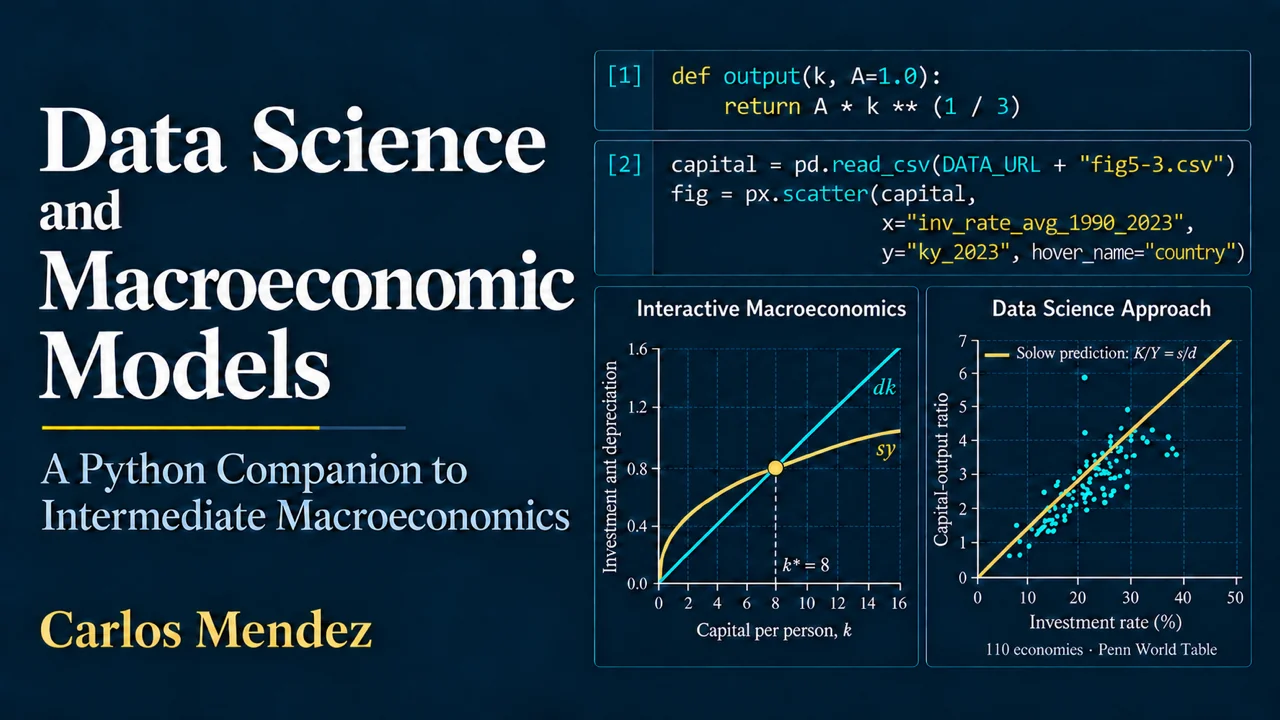
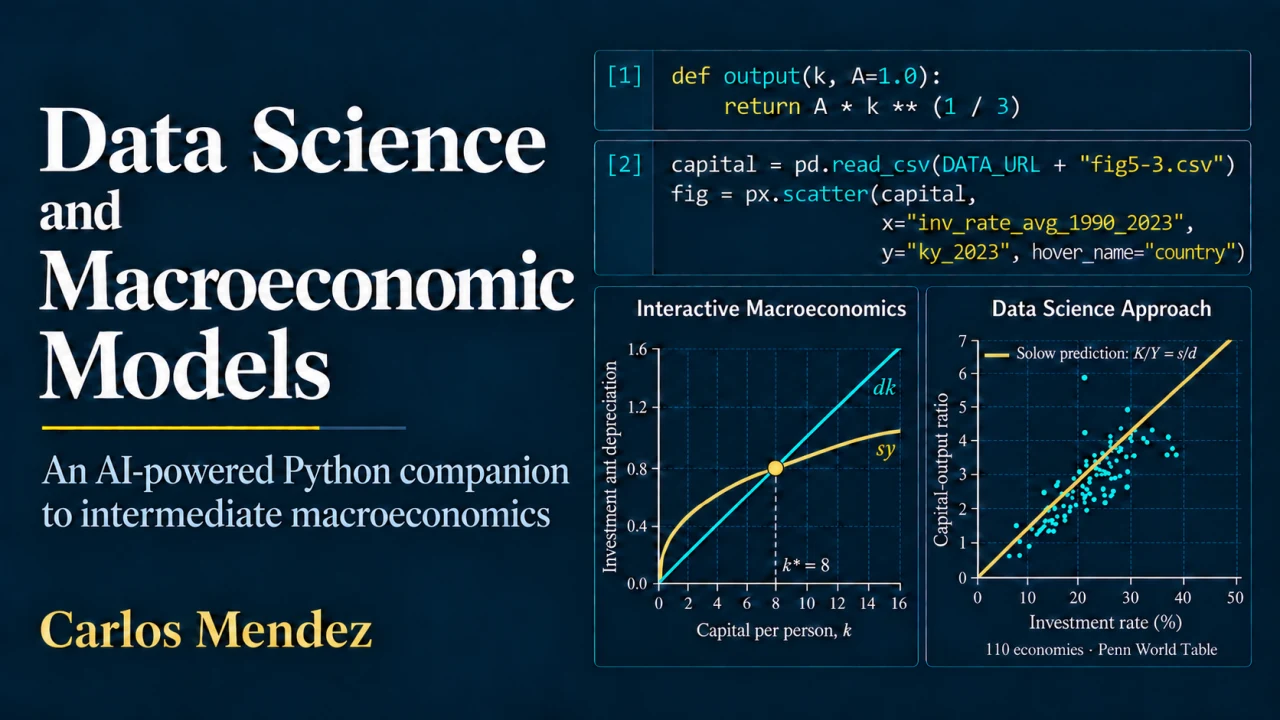
books: update AI-powered subtitle artwork and appendix resources

diff --git a/content/cv/main.tex b/content/cv/main.tex
@@ -416,7 +416,7 @@ districts: Evidence from the Greater Jakarta Metropolitan Area, \textit{Asia-Pac
 
 \subsection{Books}
 
-\cvitem{2026}{\textit{Data Science and Macroeconomic Models: A Python Companion to Intermediate Macroeconomics}. Online open-access book. \url{https://quarcs-lab.github.io/macro102-site/}}
+\cvitem{2026}{\textit{Data Science and Macroeconomic Models: An AI-powered Python companion to intermediate macroeconomics}. Online open-access book. \url{https://quarcs-lab.github.io/macro102-site/}}
 % Source copyright year: 2026; no publication day specified.
 
 \cvitem{2026}{\textit{Comparative causal metrics: An introduction to regional impact evaluation}. Online open-access book (in progress). \url{https://quarcs-lab.github.io/ccm}}

diff --git a/content/ja/books/macro102/index.md b/content/ja/books/macro102/index.md
@@ -8,13 +8,13 @@ external_link: ""
 image:
   caption: ""
   focal_point: Smart
-summary: 国によって豊かさが異なるのはなぜでしょうか。成長や景気変動を生み出す仕組みは何でしょうか。全21章の対話型Python教材、4つの付録、計算用ノートブック、講義スライドを通して、データとマクロ経済モデルを探究します。
+summary: 国によって豊かさが異なるのはなぜでしょうか。成長や景気変動を生み出す仕組みは何でしょうか。全21章の対話型Python教材、8つの付録、計算用ノートブック、講義スライドを通して、データとマクロ経済モデルを探究します。
 tags:
 - python
 - macroeconomics
 - data-science
 title: "データサイエンスとマクロ経済モデル"
-subtitle: "中級マクロ経済学のためのPython実践ガイド"
+subtitle: "AIを活用した中級マクロ経済学のためのPython実践ガイド"
 links:
   - name: "ウェブサイト"
     url: "https://quarcs-lab.github.io/macro102-site/"
@@ -24,7 +24,7 @@ links:
 
 生活水準はなぜ大きく向上したのでしょうか。それでも国によって豊かさに大きな差があるのはなぜでしょうか。景気後退時に生産・失業・インフレはどう変わるのでしょうか。**データサイエンスとマクロ経済モデル**は、実際のデータと操作できるモデルを通して、これらの問いに取り組みます。
 
-**カルロス・メンデス**による本書の原題は *Data Science and Macroeconomic Models* です。Charles I. Jonesの *Macroeconomics*（2024年）をPythonで学ぶための無料公開のオンライン書籍で、**全21章**は同じ章題・順序を採用しています。さらに、**4つの付録**で実践的な基礎とモデル推定への発展的な学習経路を提供します。Jonesの教科書で経済的な論拠を学び、対応するノートブックでデータとモデルを自分で探究できます。本書は独自のコードと図を備えた独立した補助教材であり、教科書の著者・出版社との提携や公認はありません。
+**カルロス・メンデス**による本書の原題は *Data Science and Macroeconomic Models: An AI-powered Python companion to intermediate macroeconomics* です。Charles I. Jonesの *Macroeconomics*（2024年）をPythonで学ぶための無料公開のオンライン書籍で、**全21章**は同じ章題・順序を採用しています。さらに、**8つの付録**では実践的な基礎から経済成長、モデル推定の発展的な内容へと進みます。Jonesの教科書で経済的な論拠を学び、対応するノートブックでデータとモデルを自分で探究できます。本書は独自のコードと図を備えた独立した補助教材であり、教科書の著者・出版社との提携や公認はありません。
 
 ## 本書の学習サイクル
 
@@ -39,7 +39,7 @@ links:
   <figcaption>序文に掲載された学習サイクルの図です。青はデータサイエンス、緑はマクロ経済モデリングを表します。 <a href="learning-cycle.svg">原寸の図を開く</a>. <a href="https://quarcs-lab.github.io/macro102-site/#the-cycle-of-the-book">出典：本書の序文</a> · CC BY-NC 4.0.</figcaption>
 </figure>
 
-モデルが説明できることと、その限界の両方から学びます。例えば、ソロー・モデルは豊かさの違いを説明する手掛かりになり、アイデアの経済学は持続的な成長を扱います。新しい付録Dでは比較から推定へと進み、データを使ってパラメーターを選び、モデルの適合度を評価します。
+モデルが説明できることと、その限界の両方から学びます。例えば、ソロー・モデルは豊かさの違いを説明する手掛かりになり、アイデアの経済学は持続的な成長を扱います。付録Gでは比較から推定へと進み、データを使ってパラメーターを選び、モデルの適合度を評価します。
 
 ## 本書でできること
 
@@ -120,22 +120,30 @@ IS曲線から動学的確率的一般均衡モデルまで、景気変動・危
 | 21. [おわりに](https://quarcs-lab.github.io/macro102-site/notebooks/ch21-parting-thoughts.html) | [Colab](https://colab.research.google.com/github/quarcs-lab/macro102-site/blob/main/notebooks/ch21-parting-thoughts.ipynb) | [スライド](https://quarcs-lab.github.io/macro102-site/slides/ch21/) |
 
 
-## 4つの付録：最初のノートブックからモデル推定まで
+## 8つの付録：基礎ツール・経済成長・DSGEモデル
 
-**A**はColab・Python・データサイエンスのライブラリ、**B**はマクロ経済データの取得、**C**はPythonによる計算を交えた数学の復習を扱います。**D**はSnowdropでマクロ経済モデルを書き、解き、推定する発展的な学習経路です。米国のデータを用いたIreland（2004年）のニューケインジアン・モデルの最尤推定とベイズ推定も含まれます。
+付録は、相互に補完する3つの学習経路に沿って並んでいます。
 
-付録BとDでは、追加パッケージを最初のコードセルでインストールします。A〜Cにはスライドがありますが、**付録Dには現在、スライドへのリンクがありません**。
+- **基礎ツール（A〜C）。** Colab・Python・データサイエンスのライブラリから始め、マクロ経済データの取得方法を学び、Pythonによる計算を交えて数学を復習します。
+- **経済成長（D〜F）。** Penn World Tableを使い、GDP成長や所得格差を資本・労働・生産性の寄与に分解します。収束の指標を使って貧しい国が豊かな国に追い付くかを調べ、人的資本をソロー・モデルに加え、Mankiw・Romer・Weil（1992年）の国際比較分析を再現します。
+- **DSGEモデル（G〜H）。** Snowdropでマクロ経済モデルを書き、解き、推定します。付録Gでは米国のデータを用いたIreland（2004年）のニューケインジアン・モデルの最尤推定とベイズ推定を扱います。付録Hでは推定済みのSmets–Woutersモデルを解き、第15章のインパルス応答を再計算します。
+
+付録Bでは追加のデータ用ライブラリを、GとHではSnowdropを、それぞれ最初のコードセルでインストールします。**8つすべての付録に、計算用ノートブックと講義スライドがあります。**
 
 | 章 | ノートブック | スライド |
 | --- | --- | --- |
 | A. [Google Colab・Pythonプログラミング・データサイエンスのライブラリ](https://quarcs-lab.github.io/macro102-site/notebooks/appA-google-colab-python-and-data-science-libraries.html) | [Colab](https://colab.research.google.com/github/quarcs-lab/macro102-site/blob/main/notebooks/appA-google-colab-python-and-data-science-libraries.ipynb) | [スライド](https://quarcs-lab.github.io/macro102-site/slides/appA/) |
 | B. [Pythonによるマクロ経済データの取得](https://quarcs-lab.github.io/macro102-site/notebooks/appB-accessing-macroeconomic-data-with-python.html) | [Colab](https://colab.research.google.com/github/quarcs-lab/macro102-site/blob/main/notebooks/appB-accessing-macroeconomic-data-with-python.ipynb) | [スライド](https://quarcs-lab.github.io/macro102-site/slides/appB/) |
 | C. [マクロ経済学のための数学の復習](https://quarcs-lab.github.io/macro102-site/notebooks/appC-math-review-for-macroeconomics.html) | [Colab](https://colab.research.google.com/github/quarcs-lab/macro102-site/blob/main/notebooks/appC-math-review-for-macroeconomics.ipynb) | [スライド](https://quarcs-lab.github.io/macro102-site/slides/appC/) |
-| D. [PythonによるDSGEモデリング](https://quarcs-lab.github.io/macro102-site/notebooks/appD-dsge-modeling-with-python.html) | [Colab](https://colab.research.google.com/github/quarcs-lab/macro102-site/blob/main/notebooks/appD-dsge-modeling-with-python.ipynb) | 未公開 |
+| D. [成長会計と発展会計](https://quarcs-lab.github.io/macro102-site/notebooks/appD-growth-and-development-accounting.html) | [Colab](https://colab.research.google.com/github/quarcs-lab/macro102-site/blob/main/notebooks/appD-growth-and-development-accounting.ipynb) | [スライド](https://quarcs-lab.github.io/macro102-site/slides/appD/) |
+| E. [各国の経済成長と収束](https://quarcs-lab.github.io/macro102-site/notebooks/appE-growth-and-convergence-across-countries.html) | [Colab](https://colab.research.google.com/github/quarcs-lab/macro102-site/blob/main/notebooks/appE-growth-and-convergence-across-countries.ipynb) | [スライド](https://quarcs-lab.github.io/macro102-site/slides/appE/) |
+| F. [拡張ソロー成長モデル](https://quarcs-lab.github.io/macro102-site/notebooks/appF-augmented-solow-growth-model.html) | [Colab](https://colab.research.google.com/github/quarcs-lab/macro102-site/blob/main/notebooks/appF-augmented-solow-growth-model.ipynb) | [スライド](https://quarcs-lab.github.io/macro102-site/slides/appF/) |
+| G. [PythonによるDSGEモデリング](https://quarcs-lab.github.io/macro102-site/notebooks/appG-dsge-modeling-with-python.html) | [Colab](https://colab.research.google.com/github/quarcs-lab/macro102-site/blob/main/notebooks/appG-dsge-modeling-with-python.ipynb) | [スライド](https://quarcs-lab.github.io/macro102-site/slides/appG/) |
+| H. [SmetsとWoutersのDSGEモデル](https://quarcs-lab.github.io/macro102-site/notebooks/appH-the-dsge-model-of-smets-and-wouters.html) | [Colab](https://colab.research.google.com/github/quarcs-lab/macro102-site/blob/main/notebooks/appH-the-dsge-model-of-smets-and-wouters.ipynb) | [スライド](https://quarcs-lab.github.io/macro102-site/slides/appH/) |
 
 
 ## 対象読者
 
-学部生・大学院生、独学者、経済への応用を探しているデータサイエンスの学習者、Pythonの実践経験を身に付けたい経済学者を対象としています。**プログラミングの経験は必要ありません。**より高度な内容に関心がある場合は、付録Dで理論モデルと推定を結び付けられます。
+学部生・大学院生、独学者、経済への応用を探しているデータサイエンスの学習者、Pythonの実践経験を身に付けたい経済学者を対象としています。**プログラミングの経験は必要ありません。**経済成長に関心がある場合は付録D〜Fで学びを深め、G〜Hではマクロ経済モデルとその解法・推定を結び付けられます。
 
 [序文](https://quarcs-lab.github.io/macro102-site/)から始めるか、上の章を選んでください。計算用ノートブックが初めてなら、付録Aが出発点になります。

diff --git a/content/books/macro102/index.md b/content/books/macro102/index.md
@@ -8,13 +8,13 @@ external_link: ""
 image:
   caption: ""
   focal_point: Smart
-summary: Why are some countries richer, and what drives growth and economic fluctuations? Explore the evidence and operate macroeconomic models through 21 interactive Python chapters, four appendices, computational notebooks and lecture slides.
+summary: Why are some countries richer, and what drives growth and economic fluctuations? Explore the evidence and operate macroeconomic models through 21 interactive Python chapters, eight appendices, computational notebooks and lecture slides.
 tags:
 - python
 - macroeconomics
 - data-science
 title: "Data Science and Macroeconomic Models"
-subtitle: "A Python Companion to Intermediate Macroeconomics"
+subtitle: "An AI-powered Python companion to intermediate macroeconomics"
 links:
   - name: "Website"
     url: "https://quarcs-lab.github.io/macro102-site/"
@@ -24,7 +24,7 @@ links:
 
 Why have living standards risen so much, and why are some countries still much richer than others? What happens to output, unemployment and inflation when an economy enters a downturn? **Data Science and Macroeconomic Models** approaches these questions by putting real data and working models in readers’ hands.
 
-Written by **Carlos Mendez**, this open online book is a Python companion to Charles I. Jones’s *Macroeconomics* (2024). Its **21 chapters** follow the textbook’s titles and order, while **four appendices** provide practical support and an advanced route into model estimation. Read the economic reasoning in Jones, then use the matching notebook to investigate the evidence and operate the model yourself. The book is an independent companion, with its own code and figures, and is not affiliated with or endorsed by the textbook’s author or publisher.
+Written by **Carlos Mendez**, this open online book is subtitled *An AI-powered Python companion to intermediate macroeconomics*. It accompanies Charles I. Jones’s *Macroeconomics* (2024). Its **21 chapters** follow the textbook’s titles and order, while **eight appendices** progress from practical tools to economic growth and advanced model estimation. Read the economic reasoning in Jones, then use the matching notebook to investigate the evidence and operate the model yourself. The book is an independent companion, with its own code and figures, and is not affiliated with or endorsed by the textbook’s author or publisher.
 
 ## The cycle of the book
 
@@ -39,7 +39,7 @@ Each chapter moves through the same learning cycle: **data → exploration → s
   <figcaption>Original learning-cycle figure from the preface: blue denotes data science and green denotes macroeconomic modeling. <a href="learning-cycle.svg">Open the full-size figure</a>. <a href="https://quarcs-lab.github.io/macro102-site/#the-cycle-of-the-book">Source: book preface</a> · CC BY-NC 4.0.</figcaption>
 </figure>
 
-The point is to learn from both a model’s successes and its limits. The Solow model, for example, helps explain differences in prosperity, while the economics of ideas takes up the question of sustained growth. In the new Appendix D, comparison becomes estimation: readers use data to choose parameters and assess how well a model fits.
+The point is to learn from both a model’s successes and its limits. The Solow model, for example, helps explain differences in prosperity, while the economics of ideas takes up the question of sustained growth. In Appendix G, comparison becomes estimation: readers use data to choose parameters and assess how well a model fits.
 
 ## What you can do
 
@@ -120,22 +120,30 @@ Consider what macroeconomics has learned and the questions that remain open.
 | 21. [Parting Thoughts](https://quarcs-lab.github.io/macro102-site/notebooks/ch21-parting-thoughts.html) | [Colab](https://colab.research.google.com/github/quarcs-lab/macro102-site/blob/main/notebooks/ch21-parting-thoughts.ipynb) | [Slides](https://quarcs-lab.github.io/macro102-site/slides/ch21/) |
 
 
-## Four appendices: from your first notebook to model estimation
+## Eight appendices: tools, economic growth and DSGE models
 
-**A** introduces Colab, Python and its data-science libraries. **B** explains access to macroeconomic data. **C** reviews the mathematics with Python calculations. **D** develops an advanced path into writing, solving and estimating macroeconomic models with Snowdrop, including maximum-likelihood and Bayesian estimation of Ireland’s (2004) New Keynesian model on U.S. data.
+The appendices now follow three complementary learning paths:
 
-Appendices B and D install their additional packages in the first code cell. Slides are available for A–C; **Appendix D currently has no linked slide deck**.
+- **Tools (A–C).** Begin with Colab, Python and its data-science libraries; learn to retrieve macroeconomic data; and review the mathematics with Python calculations.
+- **Economic growth (D–F).** Use the Penn World Table to separate GDP growth and income gaps into contributions from capital, labor and productivity. Explore whether poorer countries catch up through measures of convergence, then add human capital to the Solow model and replicate the cross-country analysis of Mankiw, Romer and Weil (1992).
+- **DSGE models (G–H).** Write, solve and estimate macroeconomic models with Snowdrop. Appendix G includes maximum-likelihood and Bayesian estimation of Ireland’s (2004) New Keynesian model on U.S. data. Appendix H solves the estimated Smets–Wouters model and recomputes the impulse responses presented in Chapter 15.
+
+Appendix B installs its additional data libraries in the first code cell; G and H install Snowdrop there. **All eight appendices now have computational notebooks and lecture slides.**
 
 | Chapter | Notebook | Slides |
 | --- | --- | --- |
 | A. [Google Colab, Python Coding, and Data Science Libraries](https://quarcs-lab.github.io/macro102-site/notebooks/appA-google-colab-python-and-data-science-libraries.html) | [Colab](https://colab.research.google.com/github/quarcs-lab/macro102-site/blob/main/notebooks/appA-google-colab-python-and-data-science-libraries.ipynb) | [Slides](https://quarcs-lab.github.io/macro102-site/slides/appA/) |
 | B. [Accessing Macroeconomic Data with Python](https://quarcs-lab.github.io/macro102-site/notebooks/appB-accessing-macroeconomic-data-with-python.html) | [Colab](https://colab.research.google.com/github/quarcs-lab/macro102-site/blob/main/notebooks/appB-accessing-macroeconomic-data-with-python.ipynb) | [Slides](https://quarcs-lab.github.io/macro102-site/slides/appB/) |
 | C. [Math Review for Macroeconomics](https://quarcs-lab.github.io/macro102-site/notebooks/appC-math-review-for-macroeconomics.html) | [Colab](https://colab.research.google.com/github/quarcs-lab/macro102-site/blob/main/notebooks/appC-math-review-for-macroeconomics.ipynb) | [Slides](https://quarcs-lab.github.io/macro102-site/slides/appC/) |
-| D. [DSGE Modeling with Python](https://quarcs-lab.github.io/macro102-site/notebooks/appD-dsge-modeling-with-python.html) | [Colab](https://colab.research.google.com/github/quarcs-lab/macro102-site/blob/main/notebooks/appD-dsge-modeling-with-python.ipynb) | Not available |
+| D. [Growth and Development Accounting](https://quarcs-lab.github.io/macro102-site/notebooks/appD-growth-and-development-accounting.html) | [Colab](https://colab.research.google.com/github/quarcs-lab/macro102-site/blob/main/notebooks/appD-growth-and-development-accounting.ipynb) | [Slides](https://quarcs-lab.github.io/macro102-site/slides/appD/) |
+| E. [Growth and Convergence Across Countries](https://quarcs-lab.github.io/macro102-site/notebooks/appE-growth-and-convergence-across-countries.html) | [Colab](https://colab.research.google.com/github/quarcs-lab/macro102-site/blob/main/notebooks/appE-growth-and-convergence-across-countries.ipynb) | [Slides](https://quarcs-lab.github.io/macro102-site/slides/appE/) |
+| F. [Augmented Solow Growth Model](https://quarcs-lab.github.io/macro102-site/notebooks/appF-augmented-solow-growth-model.html) | [Colab](https://colab.research.google.com/github/quarcs-lab/macro102-site/blob/main/notebooks/appF-augmented-solow-growth-model.ipynb) | [Slides](https://quarcs-lab.github.io/macro102-site/slides/appF/) |
+| G. [DSGE Modeling with Python](https://quarcs-lab.github.io/macro102-site/notebooks/appG-dsge-modeling-with-python.html) | [Colab](https://colab.research.google.com/github/quarcs-lab/macro102-site/blob/main/notebooks/appG-dsge-modeling-with-python.ipynb) | [Slides](https://quarcs-lab.github.io/macro102-site/slides/appG/) |
+| H. [The DSGE Model of Smets and Wouters](https://quarcs-lab.github.io/macro102-site/notebooks/appH-the-dsge-model-of-smets-and-wouters.html) | [Colab](https://colab.research.google.com/github/quarcs-lab/macro102-site/blob/main/notebooks/appH-the-dsge-model-of-smets-and-wouters.ipynb) | [Slides](https://quarcs-lab.github.io/macro102-site/slides/appH/) |
 
 
 ## Who the book is for
 
-The book welcomes undergraduate and master’s students, self-learners, data-science learners looking for economic applications, and economists who want practical Python experience. **No prior programming experience is assumed.** Readers interested in more advanced work can continue into Appendix D to connect theoretical models with estimation.
+The book welcomes undergraduate and master’s students, self-learners, data-science learners looking for economic applications, and economists who want practical Python experience. **No prior programming experience is assumed.** Readers interested in economic growth can explore Appendices D–F, while G–H connect macroeconomic models with solution and estimation.
 
 Start with the [preface](https://quarcs-lab.github.io/macro102-site/), choose a chapter above, or begin with Appendix A if you are new to computational notebooks.

diff --git a/logs/2026-10-19-ai-subtitle-and-appendices.md b/logs/2026-10-19-ai-subtitle-and-appendices.md
@@ -1,0 +1,22 @@
+# AI-powered subtitle and appendix refresh — local review
+
+Reviewed source commit and push authorized by Carlos. Separate book publication remains pending approval.
+
+## Personal website
+
+Updated `books/macro102` in EN/ES/JA to the current preface and eight-appendix order. D–F now cover growth/development accounting, convergence and the augmented Solow model; G–H cover DSGE modeling and Smets–Wouters. All three entries now include 29 readable chapter/appendix links, 29 computational Colab notebooks and 29 slide decks. Removed the old missing-slides note. All 87 external resource targets were checked; notebook files are valid JSON with code cells and slide pages contain presentation markup. Current live preface and source configuration both already use A–H, so no preface lag was observed.
+
+Changed the bibliographic subtitle to exactly `An AI-powered Python companion to intermediate macroeconomics` in the English entry and CV, with aligned ES/JA display subtitles and the exact English subtitle in their original-title citations. Rebuilt the 11-page CV; the edited Books citation remains readable on page 6. The main title, primary Website button, optimized learning-cycle SVG and all unrelated entries remain unchanged.
+
+## Cover and thumbnail
+
+Used the built-in imagegen skill in text-localization edit mode on the actual source PNGs. Replaced only the subtitle, preserving the established portrait/landscape design, main title, author, notebook/graph content and palette. Original PNGs are retained. New optimized assets:
+
+- Portrait: source PNG 1,715,720 bytes, edited PNG 1,697,227 bytes; WebP 170,624 bytes at 1024×1536.
+- Landscape: source PNG 1,164,626 bytes, edited PNG 1,760,964 bytes; WebP 109,894 bytes at 1280×720.
+
+The original book configuration selects `images/book-cover-ai-powered-python.webp`. The matching landscape derivative is saved in the book source and copied to all three personal-website bundles. Prompt set and visual previews are in the task workspace (`book-assets/ai-subtitle-prompts.json`).
+
+## Verification
+
+Personal Hugo build, translation parity (zero missing/stale/asset warnings), resource coverage, button and appendix-order checks passed. Desktop/mobile previews at 1440/360px show loaded artwork and the preserved cycle figure with no horizontal page overflow. Whitespace checks passed. The complete original book render (`quarto render --no-execute`) passed for all 30 inputs. Desktop/mobile previews confirm the exact new subtitle, loaded portrait cover and no page overflow. Its source/metadata checks are recorded in the task review report.
